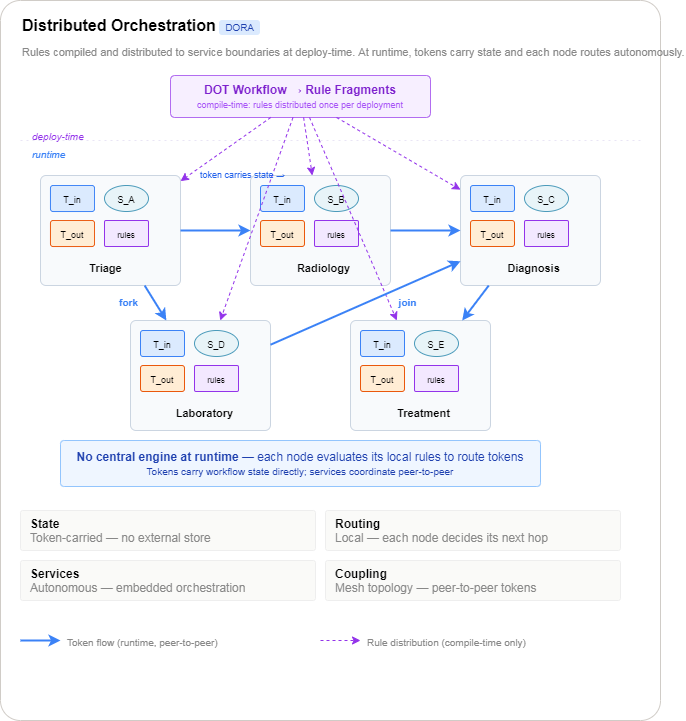
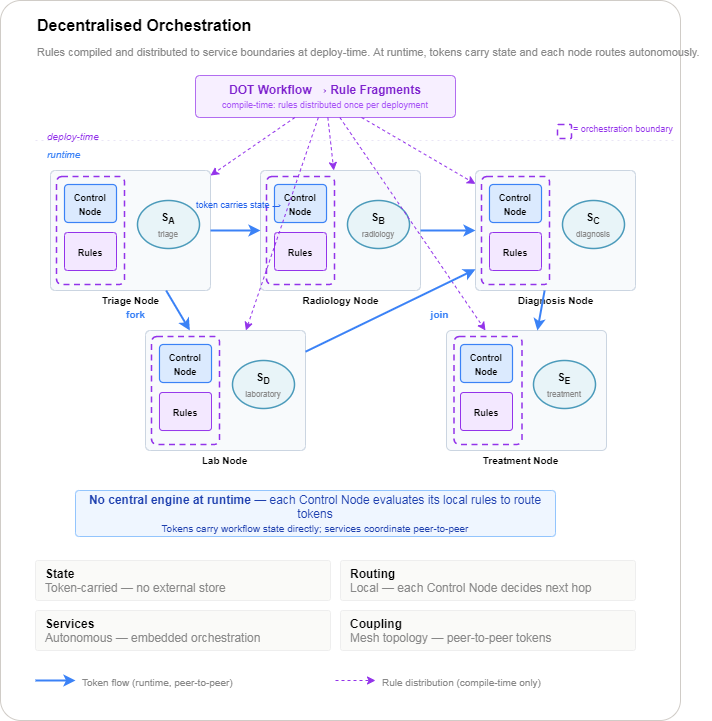
Update to ReadMe document

diff --git a/README.md b/README.md
@@ -6,12 +6,17 @@ If you just want to try out the RPSO infrastructure without wading through all t
 ## Centralised Orchestration
 <p align="center">
   <img src="images/centralised_orchestration.png" alt="Core orchestration pattern" width="80%" />
+
 </p>
+
+  *Figure 1. Conventional Centralised orchestration pattern*
 
 ## Decentralised Orchestration
 <p align="center">
   <img src="images/decentralised_orchestration.png" alt="Core orchestration pattern" width="80%" />
 </p>
+
+*Figure 2. Decentralised orchestration pattern*
 
 
 # Rule-Propagated-Service-Orchestration
@@ -19,20 +24,19 @@ If you just want to try out the RPSO infrastructure without wading through all t
 RPSO is a decentralized workflow orchestration infrastructure that eliminates central coordination bottlenecks by embedding orchestration logic as executable rules at service or mesh boundaries. Unlike traditional orchestrators that maintain global workflow state in a central engine, RPSO distributes coordination intelligence to autonomous synchronising nodes that are ideally, but not essentially, co-hosted on the service node or mesh platform as a set of Java classes (handlers). These control nodes make local routing decisions based on locally-cached rules while maintaining global workflow coherence through an xml payload that carries token-based state propagation. The architecture operates through a two-phase approach: compile-time transformation of declarative JSON workflow specifications into service-specific rule fragments, followed by runtime execution where control nodes independently evaluate rules to determine routing without inter-service coordination. 
 
 
-
 <p align="center">
-  <img src="images/basic_pattern.png" alt="Core orchestration pattern" width="80%" />
+  <img src="images/control_node.png" alt="Core orchestration pattern" width="80%" />
 </p>
 
-*Figure 1. Core orchestration pattern*
+*Figure 3. Core orchestration pattern*
 
 ## Overview
 
-The control nodes is are implemented with the notation  *T_in* and the routing node annotated as *T_out* as shown in the figure below. The dotted arrows between *T_out and *T_in reflects that generally network connections of some sort.  Services remain focused on business logic while the control nodes make autonomous routing decisions based on locally-executed rules.  These rule are sent to the control nodes prior to a particular workflow commencing. In this manner global workflow coherence can be maintained through token-based state propagation between control and routing nodes.  The service or computation node is not touch by the control nodes except to invoke them.  The dotted lines notate network connections.
+The control node comprises primarily synchronisation and publishing functions.   In figure3, these are clearly annotated however for some representation the notation  *T_in* is using to define the synchronisation function and the routing or publishing function annotated as *T_out* (this will be apparent later). The dotted arrows between *T_out and *T_in reflects that generally network connections of some sort.  Services remain focused on business logic while the control nodes make autonomous routing decisions based on locally-executed rules.  These rule are sent to the control nodes prior to a particular workflow commencing. In this manner global workflow coherence can be maintained through token-based state propagation between control and routing nodes.  The service or computation node is not touch by the control nodes except to invoke them.  The dotted lines notate network connections.
 
 
 <p align="center">
-  <img src="images/rule_deployment.png" alt="Rule Deployment pattern" width="80%" />
+  <img src="images/rule_deployment_2.png" alt="Rule Deployment pattern" width="80%" />
 </p>
 
 *Figure 2. Dual-layer architecture: Rule distribution (compile-time) and token flow (runtime)*
